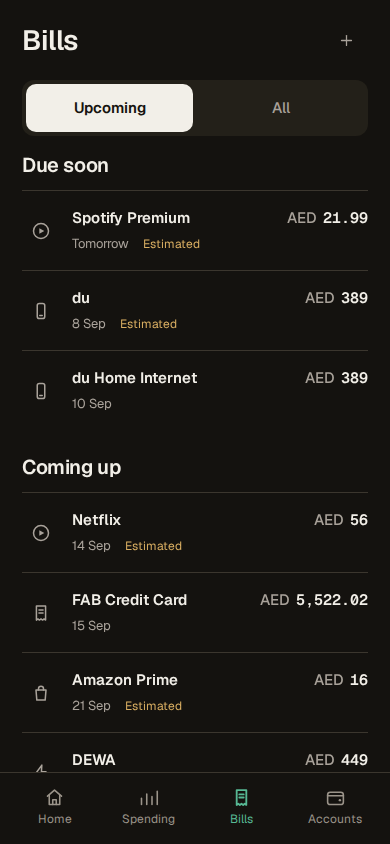
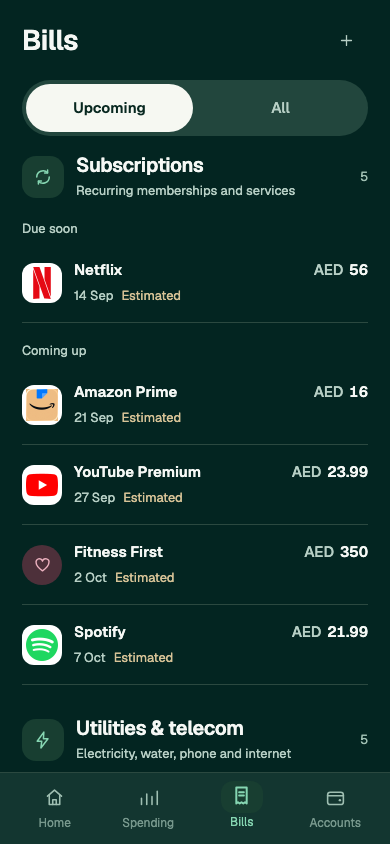
Show redesigned Wafra tabs and link Android beta 134 on landing page

diff --git a/src/marketing/home.web.tsx b/src/marketing/home.web.tsx
@@ -57,6 +57,7 @@ export default function MarketingHome() {
           </a>
           <div className={styles.navLinks}>
             <a href="#how-it-works">How it works</a>
+            <a href="#inside-wafra">Inside the app</a>
             <a href="#privacy">Privacy</a>
             <a href="#questions">Questions</a>
           </div>
@@ -104,7 +105,7 @@ export default function MarketingHome() {
               <img
                 src="/wafra-app-bills.png"
                 decoding="async"
-                alt="Wafra Bills in Ledger and Light dark mode, showing upcoming bills and recurring charges with sample data"
+                alt="Redesigned Wafra Bills in dark mode, with subscriptions separated from utilities and telecom; sample data"
                 width={390}
                 height={844}
               />
@@ -113,7 +114,7 @@ export default function MarketingHome() {
               <img
                 src="/wafra-app-home.png"
                 fetchPriority="high"
-                alt="Wafra Home in Ledger and Light, showing recorded balances, spending, income and upcoming bills with sample data"
+                alt="Redesigned Wafra Home, focused on spending, income and the next payments instead of a total balance; sample data"
                 width={390}
                 height={844}
               />
@@ -122,6 +123,28 @@ export default function MarketingHome() {
             <figcaption className={styles.previewCaption}>App previews · sample data</figcaption>
           </figure>
         </header>
+
+        <section className={styles.appTour} id="inside-wafra" aria-labelledby="app-tour-title">
+          <div className={styles.tourIntro}>
+            <p className={styles.kicker}>A closer look</p>
+            <h2 id="app-tour-title">Less clutter. More clarity.</h2>
+            <p>Three focused views for your everyday money. Actual app screens with sample data.</p>
+          </div>
+          <div className={styles.screenGrid}>
+            <figure className={styles.screenPreview}>
+              <figcaption><h3>Home</h3><p>Your spending first. Income, the next payments and recent activity, without a wall of cards.</p></figcaption>
+              <img src="/wafra-app-home.png" alt="Wafra Home: one spending summary, a smaller income row and upcoming payments; sample data" width={390} height={844} loading="lazy" decoding="async" />
+            </figure>
+            <figure className={styles.screenPreview}>
+              <figcaption><h3>Spending</h3><p>See each category’s share of total spending. Budget usage is labelled separately.</p></figcaption>
+              <img src="/wafra-app-spending.png" alt="Wafra Spending: amounts, category percentages and proportional bars, with separate budget usage; sample data" width={390} height={844} loading="lazy" decoding="async" />
+            </figure>
+            <figure className={styles.screenPreview}>
+              <figcaption><h3>Bills</h3><p>Subscriptions and utilities in separate sections. Dates and estimated charges stay visible.</p></figcaption>
+              <img src="/wafra-app-bills-light.png" alt="Wafra Bills: separate Subscriptions and Utilities and telecom sections with renewal dates; sample data" width={390} height={844} loading="lazy" decoding="async" />
+            </figure>
+          </div>
+        </section>
 
         <section className={styles.features} id="how-it-works">
           <div className={styles.sectionIntro}>

diff --git a/src/marketing/home.module.css b/src/marketing/home.module.css
@@ -122,6 +122,16 @@
 .phoneFront { order: 0; }
 .phoneBack { margin-top: 54px; order: 1; background: var(--charcoal); border-color: #3B362E; }
 .previewCaption { color: var(--muted); font-size: 12px; line-height: 1.6; margin-top: 20px; text-align: center; }
+.appTour { border-top: 1px solid var(--line); margin: 0 auto; max-width: 1180px; padding: 72px 32px 88px; }
+.tourIntro { max-width: 650px; margin-bottom: 40px; }
+.tourIntro h2 { font-family: Geist-SemiBold, sans-serif; font-size: clamp(32px, 3.2vw, 44px); font-weight: normal; letter-spacing: -.035em; line-height: 1.14; margin: 0; }
+.tourIntro > p:last-child { color: var(--muted); font-size: 16px; line-height: 1.65; margin: 22px 0 0; }
+.screenGrid { display: grid; grid-template-columns: repeat(3, minmax(0, 1fr)); gap: 40px; align-items: start; }
+.screenPreview { min-width: 0; margin: 0; }
+.screenPreview figcaption { min-height: 144px; padding-bottom: 24px; }
+.screenPreview h3 { font-family: Geist-Medium, sans-serif; font-size: 23px; font-weight: normal; letter-spacing: -.02em; margin: 0 0 10px; }
+.screenPreview p { color: var(--muted); font-size: 15px; line-height: 1.65; margin: 0; }
+.screenPreview img { display: block; width: 100%; height: auto; border: 1px solid var(--line); border-radius: 20px; }
 .skipLink { position: absolute; left: 16px; top: -100px; z-index: 100; padding: 14px 20px; background: var(--green); color: #FBF9F4 !important; }
 .skipLink:focus { top: 12px; }
 
@@ -168,6 +178,7 @@
 @media (max-width: 980px) {
   .nav { gap: 16px; }
   .navLinks { gap: 18px; }
+  .screenGrid { gap: 24px; }
   .hero { gap: 44px; grid-template-columns: 1fr; padding-top: 52px; }
   .heroCopy { max-width: 650px; }
   .productStage { margin: 0 auto; max-width: 580px; width: 100%; }
@@ -180,6 +191,8 @@
   .nav { gap: 4px 16px; grid-template-columns: 1fr auto; padding: 10px 20px; }
   .navLinks { grid-column: 1 / -1; grid-row: 2; gap: 24px; }
   .navLinks a { font-size: 13px; }
+  .navLinks { display: grid; grid-template-columns: repeat(4, minmax(0, 1fr)); gap: 10px; }
+  .navLinks a { font-size: 12px; line-height: 18px; }
   .availability { font-size: 12px; }
   .hero { gap: 36px; padding: 44px 20px 56px; }
   .hero h1 { font-size: clamp(37px, 9.5vw, 56px); }
@@ -189,6 +202,9 @@
   .phonePair { gap: 12px; }
   .phone { border-radius: 14px; }
   .phoneBack { margin-top: 36px; }
+  .appTour { padding: 56px 20px; }
+  .screenGrid { grid-template-columns: 1fr; gap: 44px; max-width: 390px; margin: 0 auto; }
+  .screenPreview figcaption { min-height: 0; }
   .features, .faq, .privacy { gap: 32px; padding: 56px 20px; }
   .featureCard { gap: 16px; }
   .featureCard h3 { font-size: 21px; }

diff --git a/scripts/test/web-seo.test.js b/scripts/test/web-seo.test.js
@@ -47,6 +47,14 @@ ok(
   'product previews disclose sample data and prioritize the home image',
   landing.includes('App previews · sample data') && landing.includes('fetchPriority="high"'),
 );
+ok(
+  'the app tour shows the redesigned Home, category percentages and separate bill sections',
+  landing.includes('id="inside-wafra"') && landing.includes('/wafra-app-spending.png') &&
+    landing.includes('/wafra-app-bills-light.png') &&
+    landing.includes('category’s share of total spending') &&
+    landing.includes('Subscriptions and utilities in separate sections') &&
+    !landing.includes('showing recorded balances'),
+);
 
 ok(
   'the landing page teaches iPhone capture only from selected bank senders',

diff --git a/src/marketing/content.ts b/src/marketing/content.ts
@@ -32,7 +32,7 @@ const getSiteUrl = () => {
 export const SITE_URL = getSiteUrl();
 export const TESTFLIGHT_URL = 'https://testflight.apple.com/join/jbwzCgZ6';
 export const ANDROID_APK_URL =
-  'https://github.com/khanjer496-alt/Wafra/releases/download/android-test-9ea4cd8/Wafra-android-9ea4cd8.apk';
+  'https://github.com/khanjer496-alt/Wafra/releases/download/android-clarity-67f996b/Wafra-android-67f996b.apk';
 export const MARKETING_TITLE = 'Wafra — Private Budget & Expense Tracker';
 export const MARKETING_DESCRIPTION =
   'Track spending, budgets, bills and subscriptions anywhere without a bank login. Start manually or use optional supported imports.';
